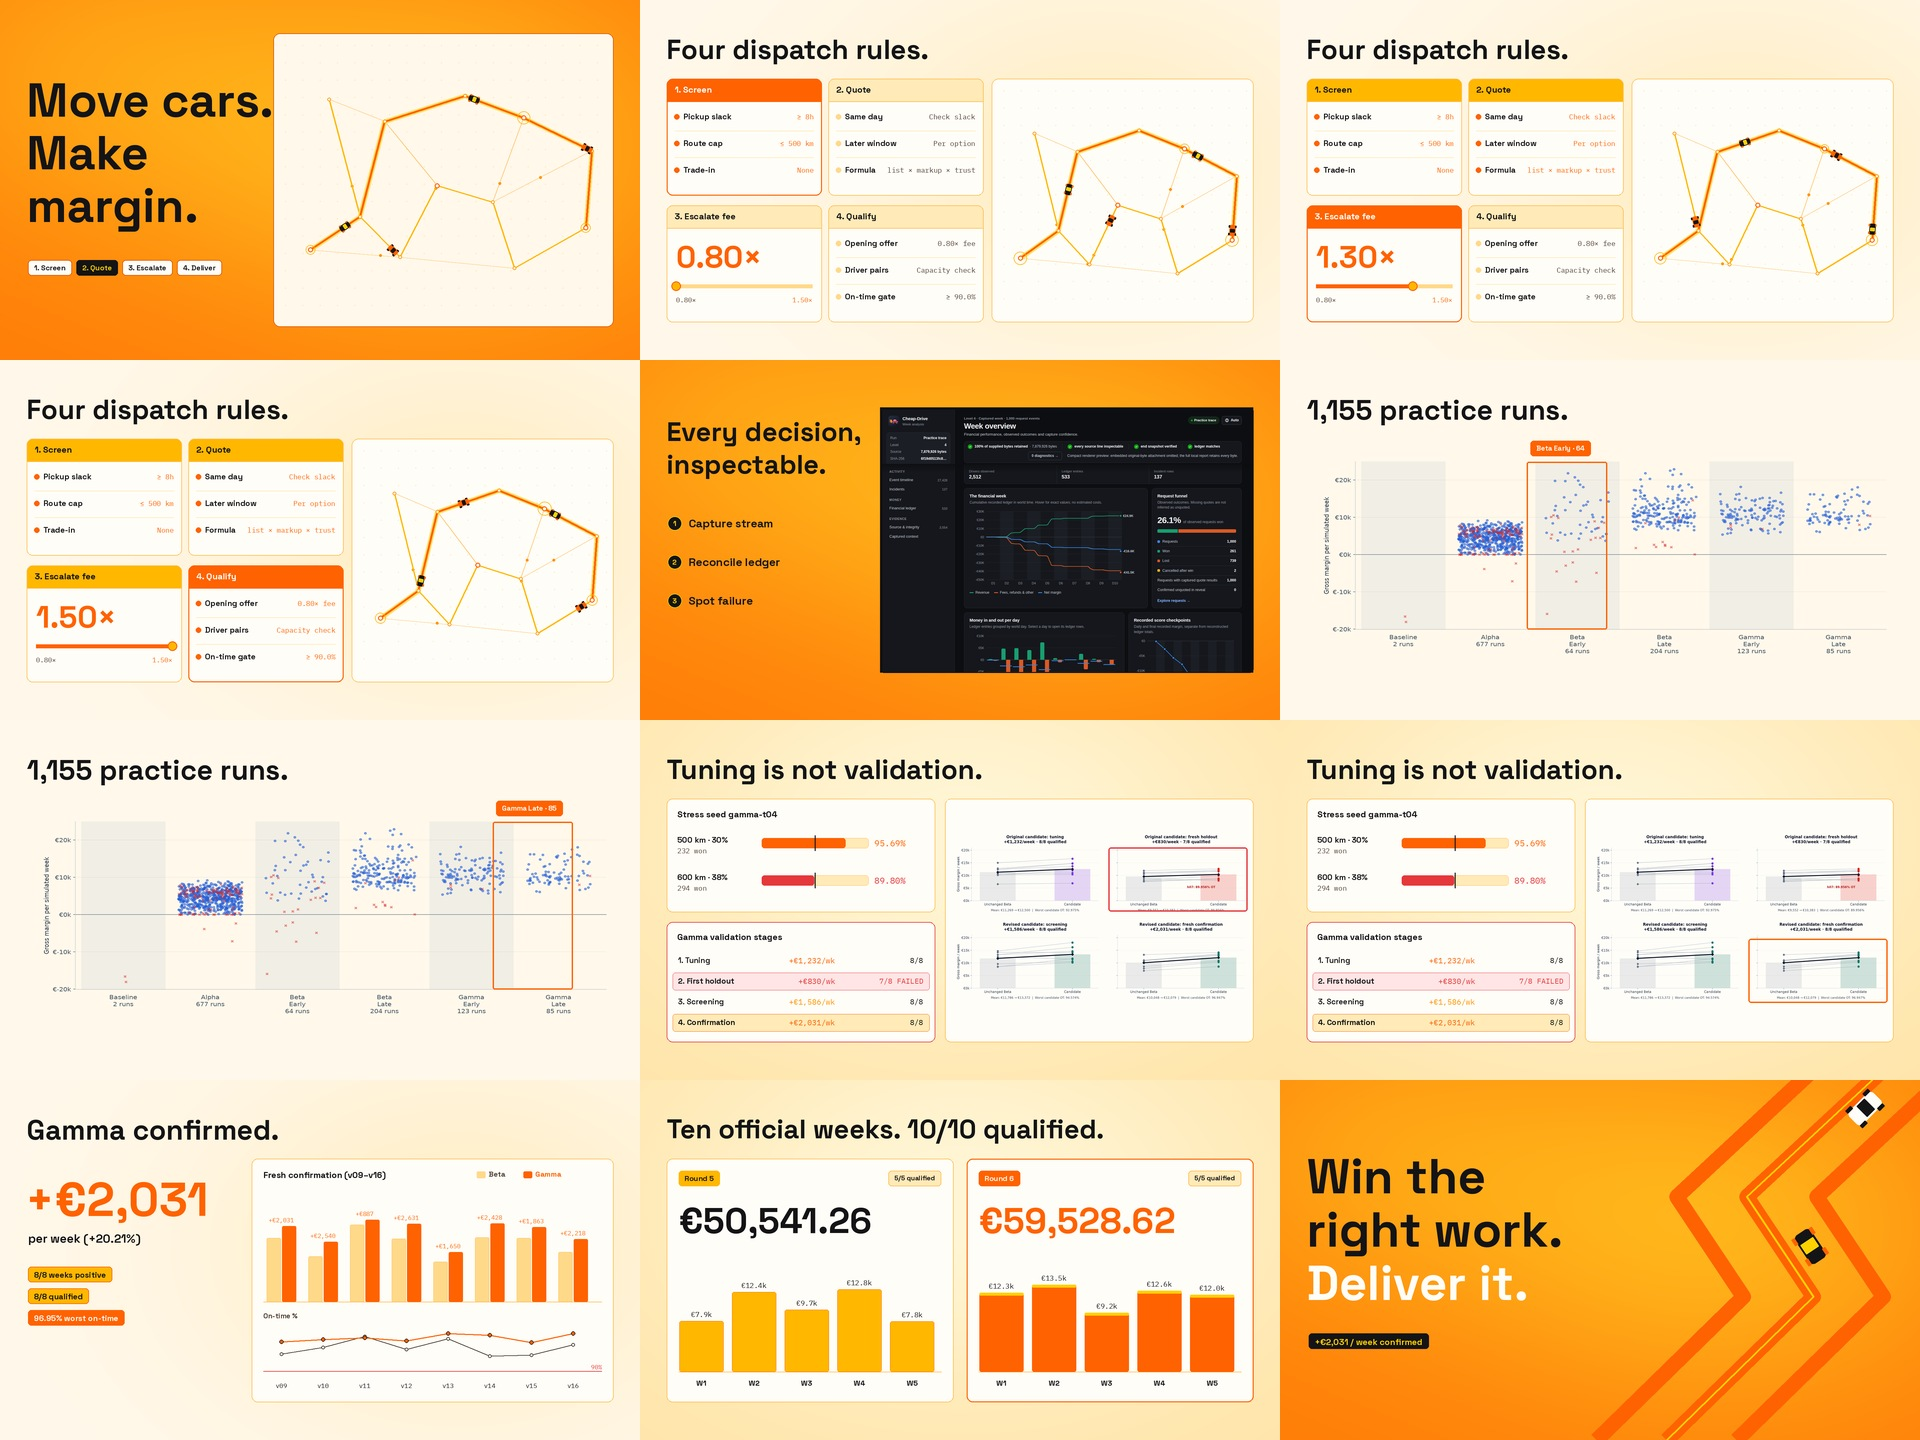
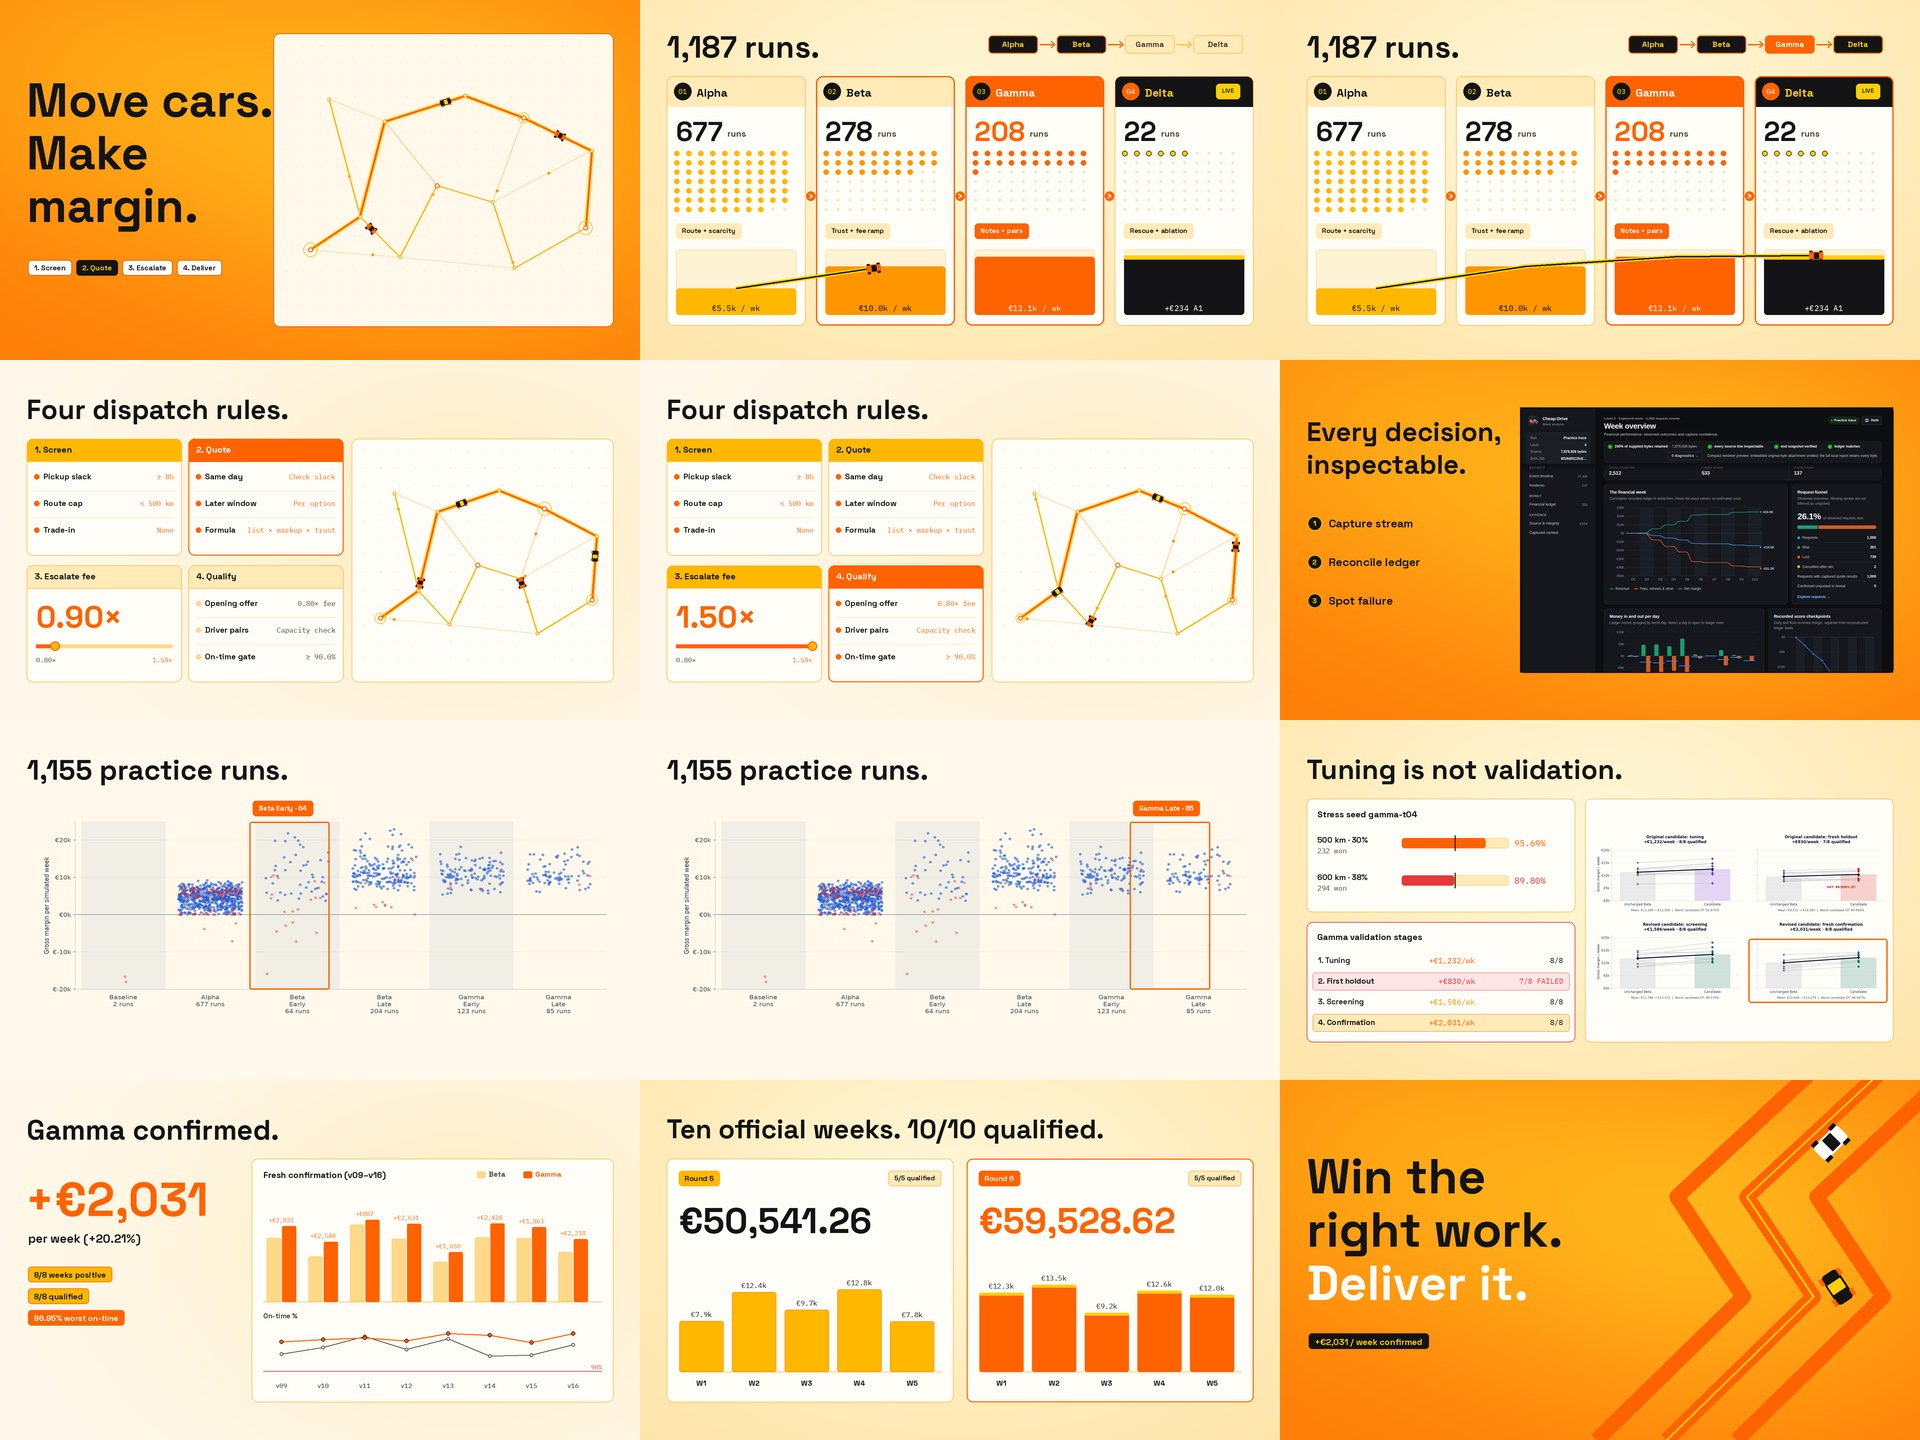
feat(demo-video): add graphical Alpha->Beta->Gamma->Delta iteration slide near start

diff --git a/docs/demo-video/render.py b/docs/demo-video/render.py
@@ -29,14 +29,15 @@ GOLD_LINE = '#FFBE4F'    # Golden-orange structural border on cream scenes
 DANGER = '#E5383B'       # Crisp crimson for failed qualification / deadline warnings
 
 SCENES = [
-    (0, 6),
-    (6, 15),
-    (15, 22),
-    (22, 30),
-    (30, 38),
-    (38, 47),
-    (47, 54),
-    (54, 60),
+    (0, 5),
+    (5, 13),
+    (13, 20),
+    (20, 26),
+    (26, 34),
+    (34, 41),
+    (41, 49),
+    (49, 55),
+    (55, 60),
 ]
 
 GRAPH = json.loads((ROOT / 'data/graph-data.json').read_text())
@@ -125,7 +126,7 @@ def badge(im, text, x, y, color=INK, bg=MARIGOLD, border=None, size=22, mono=Fal
     return w
 
 
-def enter(im, text, x, y, size, t, delay=0, color=INK, weight=600, mono=False, span=0.40):
+def enter(im, text, x, y, size, t, delay=0, color=INK, weight=600, mono=False, span=0.38):
     p = ease((t - delay) / span)
     if p <= 0:
         return
@@ -228,16 +229,126 @@ def hero(t):
     im = base_canvas('juicy').copy()
     network(im, t, (820, 100, 1840, 980), bg=CREAM, border='#E05500')
     enter(im, 'Move cars.', 80, 210, 142, t, .05, color=INK, weight=700)
-    enter(im, 'Make', 80, 368, 142, t, .18, color=INK, weight=700)
-    enter(im, 'margin.', 80, 526, 142, t, .30, color=INK, weight=700)
-    if t > .6:
+    enter(im, 'Make', 80, 368, 142, t, .16, color=INK, weight=700)
+    enter(im, 'margin.', 80, 526, 142, t, .26, color=INK, weight=700)
+    if t > .45:
         steps = ['1. Screen', '2. Quote', '3. Escalate', '4. Deliver']
         xx = 84
-        active_step = min(3, int((t - .6) / 1.1))
+        active_step = min(3, int((t - .45) / 0.95))
         for i, s in enumerate(steps):
             is_act = i == active_step
             w = badge(im, s, xx, 780, color=SUNBURST if is_act else INK, bg=INK if is_act else CARD, border=None if is_act else '#E05500', size=22)
             xx += w + 14
+    return im
+
+
+def evolution(t):
+    """Graphical Alpha -> Beta -> Gamma -> Delta iteration pipeline and total run counter."""
+    im = base_canvas('sunburst').copy()
+    total_runs = round(1187 * ease(t / 0.9))
+    enter(im, f'{total_runs:,} runs.', 80, 82, 92, t, 0.05, color=INK, weight=700)
+
+    # Top-right graphical Alpha -> Beta -> Gamma -> Delta chain
+    chain_names = ['Alpha', 'Beta', 'Gamma', 'Delta']
+    chain_x = 1045
+    for i, nm in enumerate(chain_names):
+        bx = chain_x + i * 205
+        act = t >= i * 1.4
+        bg_c = ORANGE if (act and i == 2) else (INK if act else APRICOT)
+        fg_c = CARD if (act and i == 2) else (SUNBURST if act else MUTED_INK)
+        rect(im, (bx, 106, bx + 148, 160), bg_c, outline=ORANGE if act else GOLD_LINE, r=12, width=3 if act else 2)
+        txt(im, nm, bx + 74, 133, 24, fg_c, weight=700, anchor='mm')
+        if i < 3:
+            ax1, ax2 = bx + 154, bx + 199
+            line(im, [(ax1, 133), (ax2, 133)], ORANGE if act else GOLD_LINE, 4)
+            line(im, [(ax2 - 11, 123), (ax2, 133), (ax2 - 11, 143)], ORANGE if act else GOLD_LINE, 4)
+
+    # 4 prototype columns: (num_tag, name, runs, dots_count, margin_eur, tag, accent_col)
+    protos = [
+        ('01', 'Alpha', 677, 68, 5476, 'Route + scarcity', MARIGOLD),
+        ('02', 'Beta', 278, 28, 10048, 'Trust + fee ramp', MANGO),
+        ('03', 'Gamma', 208, 21, 12079, 'Notes + pairs', ORANGE),
+        ('04', 'Delta', 22, 6, 12313, 'Rescue + ablation', INK),
+    ]
+
+    curve_pts = []
+    for i, (num_tag, name, r_cnt, n_dots, mgn, tag, col) in enumerate(protos):
+        cx = 80 + i * 448
+        cw = 416
+        cy, cy2 = 228, 976
+        appear = ease((t - 0.15 - i * 0.25) / 0.55)
+        is_focus = int(clamp(t / 1.8, 0, 3.99)) == i
+        is_gamma = i == 2
+        is_delta = i == 3
+
+        rect(im, (cx, cy, cx + cw, cy2), CARD, None, r=20)
+        hdr_bg = ORANGE if is_gamma else (INK if is_delta else APRICOT)
+        hdr_fg = CARD if is_gamma else (SUNBURST if is_delta else INK)
+        rect(im, (cx, cy, cx + cw, cy + 92), hdr_bg, None, r=20)
+        rect(im, (cx, cy + 70, cx + cw, cy + 92), hdr_bg, None, r=0)
+        rect(im, (cx, cy, cx + cw, cy2), None, ORANGE if (is_focus or is_gamma) else GOLD_LINE, r=20, width=4 if (is_focus or is_gamma) else 2)
+
+        # Stage number & Name
+        circle(im, cx + 48, cy + 46, 26, INK if not is_delta else ORANGE)
+        txt(im, num_tag, cx + 48, cy + 46, 22, SUNBURST if not is_delta else CARD, mono=True, weight=700, anchor='mm')
+        txt(im, name, cx + 90, cy + 28, 34, hdr_fg, 700)
+        if is_delta:
+            badge(im, 'LIVE', cx + cw - 112, cy + 23, color=INK, bg=SUNBURST, size=18)
+
+        # Big run count & visual dot-matrix meter (each dot = ~10 runs)
+        cnt_now = round(r_cnt * appear)
+        txt(im, f'{cnt_now}', cx + 28, cy + 114, 82, ORANGE if is_gamma else INK, 700)
+        txt(im, 'runs', cx + 28 + font(82, 700).getbbox(f'{cnt_now}')[2] + 14, cy + 156, 26, MUTED_INK, 650)
+
+        # Graphical dot grid representing run volume
+        gx0, gy0 = cx + 30, cy + 232
+        for d_idx in range(70):
+            dx = gx0 + (d_idx % 10) * 36
+            dy = gy0 + (d_idx // 10) * 28
+            active_dot = d_idx < round(n_dots * appear)
+            circle(
+                im,
+                dx,
+                dy,
+                8 if active_dot else 4,
+                (ORANGE if is_gamma else (SUNBURST if is_delta else col)) if active_dot else '#F7E6C4',
+                outline=INK if (active_dot and is_delta) else None,
+                width=2 if (active_dot and is_delta) else 0,
+            )
+
+        # Strategy tag pill
+        badge(im, tag, cx + 28, cy + 442, color=CARD if is_gamma else INK, bg=ORANGE if is_gamma else APRICOT, size=20)
+
+        # Rising weekly margin bar at bottom of card
+        bar_base = cy2 - 32
+        max_h = 195
+        bh = max_h * (mgn / 13500.0) * appear
+        by = bar_base - bh
+        rect(im, (cx + 28, bar_base - max_h, cx + cw - 28, bar_base), '#FFF3D6', outline=GOLD_LINE, r=10)
+        rect(im, (cx + 28, by, cx + cw - 28, bar_base), ORANGE if is_gamma else (INK if is_delta else col), r=10)
+        if is_delta and appear > 0.2:
+            rect(im, (cx + 28, by, cx + cw - 28, min(bar_base, by + 12)), SUNBURST, r=4)
+        lbl_mgn = f'€{mgn / 1000:.1f}k / wk' if not is_delta else '+€234 A1'
+        if appear > 0.35:
+            txt(im, lbl_mgn, cx + cw / 2, bar_base - 36, 24, CARD if (is_gamma or is_delta) else INK, mono=True, weight=700, anchor='ma')
+        curve_pts.append((cx + cw / 2, by))
+
+        # Arrow connector between cards
+        if i < 3:
+            ax = cx + cw + 16
+            ay = cy + 360
+            circle(im, ax, ay, 14, ORANGE if appear > 0.8 else APRICOT)
+            line(im, [(ax - 5, ay - 6), (ax + 5, ay), (ax - 5, ay + 6)], CARD if appear > 0.8 else MUTED_INK, 3)
+
+    # Trajectory curve & climbing car across the 4 prototypes
+    if len(curve_pts) > 1 and t > 0.8:
+        p_car = clamp((t - 0.8) / 5.5)
+        path_partial(im, curve_pts, p_car, INK, 5, glow=SUNBURST)
+        q = route_point(curve_pts, p_car)
+        ahead = route_point(curve_pts, min(p_car + 0.01, 1.0))
+        heading = math.degrees(math.atan2(ahead[1] - q[1], ahead[0] - q[0]))
+        car(im, *q, color=ORANGE, scale=1.15, angle=heading)
+
     return im
 
 
@@ -246,7 +357,7 @@ def dispatcher(t):
     im = base_canvas('citrus').copy()
     enter(im, 'Four dispatch rules.', 80, 96, 82, t, 0.05, color=INK, weight=700)
 
-    phase = min(3, int(t / 2.1))
+    phase = min(3, int(t / 1.65))
 
     cards = [
         (80, 236, '1. Screen', [
@@ -281,7 +392,7 @@ def dispatcher(t):
         txt(im, title, cx + 24, cy + 16, 26, hdr_fg, 700)
 
         if i == 2:
-            p_ramp = smooth(clamp((t - 1.8) / 4.2))
+            p_ramp = smooth(clamp((t - 1.2) / 3.4))
             val = mix(0.80, 1.50, p_ramp)
             txt(im, f'{val:.2f}×', cx + 28, cy + 96, 92, ORANGE, 700)
             ry = cy + 242
@@ -309,11 +420,11 @@ def observability(t):
     enter(im, 'inspectable.', 80, 262, 80, t, 0.18, color=INK, weight=700)
     for i, (n, s) in enumerate([('1', 'Capture stream'), ('2', 'Reconcile ledger'), ('3', 'Spot failure')]):
         yy = 470 + i * 116
-        if t > .3 + i * .15:
+        if t > .25 + i * .14:
             circle(im, 104, yy + 20, 21, INK, outline=SUNBURST, width=2)
             txt(im, n, 104, yy + 20, 22, SUNBURST, weight=700, anchor='mm')
-        enter(im, s, 146, yy - 2, 34, t, .3 + i * .15, color=INK, weight=650)
-    crop_top = mix(0., 370., smooth((t - 0.6) / 5.6))
+        enter(im, s, 146, yy - 2, 34, t, .25 + i * .14, color=INK, weight=650)
+    crop_top = mix(0., 370., smooth((t - 0.4) / 4.8))
     viewport = Image.new('RGB', (1280, 910), '#0C0D0F')
     viewport.paste(REPORT.crop((0, 0, 1280, 194)), (0, 0))
     viewport.paste(REPORT.resize((1280, 716), Image.Resampling.BICUBIC, box=(0., 194 + crop_top, 1280., 910 + crop_top)), (0, 194))
@@ -330,7 +441,6 @@ def observability(t):
 @lru_cache(maxsize=1)
 def graph_all_small():
     tinted = ImageChops.multiply(CHART_ALL, Image.new('RGB', CHART_ALL.size, CREAM)).resize((1790, 868), Image.Resampling.LANCZOS)
-    # Mask embedded matplotlib header/subtitle and bottom footnotes
     rect(tinted, (0, 0, 1790, 145), CREAM)
     rect(tinted, (0, 765, 1790, 868), CREAM)
     return tinted
@@ -339,7 +449,6 @@ def graph_all_small():
 @lru_cache(maxsize=1)
 def graph_stages_small():
     tinted = ImageChops.multiply(CHART_STAGES, Image.new('RGB', CHART_STAGES.size, CARD)).resize((910, 680), Image.Resampling.LANCZOS)
-    # Mask embedded matplotlib title/subtitle and bottom footnotes
     rect(tinted, (0, 0, 910, 92), CARD)
     rect(tinted, (0, 608, 910, 680), CARD)
     return tinted
@@ -358,8 +467,8 @@ def experiments(t):
         (4, 'Gamma Early · 123'),
         (5, 'Gamma Late · 85'),
     ]
-    if t > 0.5:
-        frac = clamp((t - 0.5) / 6.6)
+    if t > 0.4:
+        frac = clamp((t - 0.4) / 6.8)
         pos = mix(0.0, 4.0, smooth(frac))
         col = 1.0 + pos
         stage_idx = min(4, int(pos + 0.5))
@@ -417,7 +526,7 @@ def failure(t):
     # Right panel: The 4-panel learning-stages.png chart (header & footnotes masked)
     rect(im, (915, 236, 1840, 966), CARD, outline=GOLD_LINE, r=18, width=2)
     im.paste(graph_stages_small(), (922, 240))
-    if t < 4.0:
+    if t < 3.4:
         rect(im, (1405, 382, 1822, 574), None, DANGER, r=8, width=4)
     else:
         rect(im, (1405, 656, 1822, 848), None, ORANGE, r=8, width=4)
@@ -506,7 +615,7 @@ def result(t):
         line(im, [(rx + 36, base_y), (rx + 824, base_y)], GOLD_LINE, 2)
         for j, w in enumerate(runs_list):
             bx = rx + 38 + j * 158
-            p = ease((t - 0.30 - j * 0.14) / 0.65)
+            p = ease((t - 0.25 - j * 0.12) / 0.55)
             v = w['score']['marginCents'] / 100.0
             bh = 280 * (v / 14500.0) * p
             rect(im, (bx, base_y - bh, bx + 132, base_y), bar_col, outline=ORANGE if not is_r6 else None, r=6)
@@ -541,19 +650,19 @@ def ending(t):
     return im
 
 
-FUNCS = [hero, dispatcher, observability, experiments, failure, gain, result, ending]
+FUNCS = [hero, evolution, dispatcher, observability, experiments, failure, gain, result, ending]
 
 
 def frame(t):
-    idx = next((i for i, (a, b) in enumerate(SCENES) if a <= t < b), 7)
+    idx = next((i for i, (a, b) in enumerate(SCENES) if a <= t < b), 8)
     a, b = SCENES[idx]
     im = FUNCS[idx](t - a)
     dt = t - a
-    if idx and dt < .32:
-        xx = round(W * ease(dt / .32))
+    if idx and dt < .30:
+        xx = round(W * ease(dt / .30))
         prev = FUNCS[idx - 1](SCENES[idx - 1][1] - SCENES[idx - 1][0] + dt)
         im.paste(prev.crop((xx, 0, W, H)), (xx, 0))
-        rect(im, (max(0, xx - 12), 0, xx + 2, H), ORANGE if idx not in [0, 2, 7] else INK)
+        rect(im, (max(0, xx - 12), 0, xx + 2, H), ORANGE if idx not in [0, 3, 8] else INK)
     return im
 
 
@@ -615,7 +724,7 @@ def soundtrack(path):
                 noise = rng.standard_normal(len(ts))
                 noise = np.diff(np.r_[0, noise]) * np.exp(-ts * 95)
                 add(start + j * (beat_sec / 2), noise, .012 if j % 2 else .006, (-1 if j % 2 else 1) * .3)
-    for cut in [6, 15, 22, 30, 38, 47, 54]:
+    for cut in [5, 13, 20, 26, 34, 41, 49, 55]:
         ts = np.arange(round(sr * 0.7)) / sr
         noise = rng.standard_normal(len(ts))
         noise = np.convolve(noise, np.ones(12) / 12, mode='same')
@@ -633,7 +742,7 @@ def soundtrack(path):
 
 
 def stills(out):
-    times = [2.5, 7.2, 10.5, 13.8, 18.5, 24.5, 28.0, 32.5, 36.5, 43.5, 51.0, 57.5]
+    times = [2.2, 7.5, 11.2, 15.0, 18.2, 23.0, 28.5, 32.0, 38.0, 45.0, 52.0, 57.5]
     thumbs = []
     for p in out.glob('frame-*.png'):
         p.unlink()
@@ -647,7 +756,7 @@ def stills(out):
         sheet.paste(thumb, ((i % 3) * 640, (i // 3) * 360))
     sheet.save(out / 'contact-sheet.jpg', quality=93)
     sheet.save(ROOT / 'assets/contact-sheet.jpg', quality=93)
-    poster = frame(2.5)
+    poster = frame(10.5)
     poster.save(out / 'poster.png')
     poster.save(ROOT / 'assets/poster.png')
 

diff --git a/docs/demo-video/README.md b/docs/demo-video/README.md
@@ -26,14 +26,15 @@ Output defaults to `runs/demo-video/` (ignored by Git); `--output /absolute/path
 
 | Time | Scene |
 | --- | --- |
-| 00:00–00:06 | Move cars. Make margin. Animated route network (`1,165 scored worlds / 58 scenarios`). |
-| 00:06–00:15 | 2×2 Dispatch Bento: Screen, Quote, Escalate fee (`0.80× → 1.50×`), Guard 90% qualification. |
-| 00:15–00:22 | Observability: Real offline HTML report screenshot with scrolling details. |
-| 00:22–00:30 | 1,155 completed practice runs across 6 model stages (`Baseline`, `Alpha`, `Beta Early`, `Beta Late`, `Gamma Early`, `Gamma Late`). |
-| 00:30–00:38 | Tuning vs. validation: Stress seed `gamma-t04` (`89.80%` OT) and why Gamma Early failed its first fresh holdout (`gamma-h07` at `89.956%` OT, `7/8 qualified`). |
-| 00:38–00:47 | Gamma Late confirmed on 8 untouched weeks (`v09–v16`): `+€2,031/week (+20.21%)`, `8/8 positive`, `8/8 qualified`, worst on-time `93.67% → 96.95%`. |
-| 00:47–00:54 | Ten official ranking weeks (`10/10 qualified`): Round 5 (`€50,541.26`) and Round 6 (`€59,528.62`). |
-| 00:54–01:00 | Brand close on the highway (`Gamma confirmed: +€2,031/wk on v09–v16`). |
+| 00:00–00:05 | Move cars. Make margin. Animated route network. |
+| 00:05–00:13 | 1,187 runs: Graphical `Alpha → Beta → Gamma → Delta` iteration pipeline (`677`, `278`, `208`, `22+ LIVE`) with run-volume matrices and rising margin trajectory. |
+| 00:13–00:20 | 2×2 Dispatch Bento: Screen, Quote, Escalate fee (`0.80× → 1.50×`), Qualify (`≥ 90%`). |
+| 00:20–00:26 | Observability: Real offline HTML report screenshot with scrolling details. |
+| 00:26–00:34 | 1,155 completed practice runs across 6 model stages (`Baseline`, `Alpha`, `Beta Early`, `Beta Late`, `Gamma Early`, `Gamma Late`). |
+| 00:34–00:41 | Tuning vs. validation: Stress seed `gamma-t04` (`89.80%` OT) and why Gamma Early failed its first fresh holdout (`gamma-h07` at `89.956%` OT, `7/8 qualified`). |
+| 00:41–00:49 | Gamma Late confirmed on 8 untouched weeks (`v09–v16`): `+€2,031/week (+20.21%)`, `8/8 positive`, `8/8 qualified`, worst on-time `96.95%`. |
+| 00:49–00:55 | Ten official ranking weeks (`10/10 qualified`): Round 5 (`€50,541.26`) and Round 6 (`€59,528.62`). |
+| 00:55–01:00 | Highway close (`Win the right work. Deliver it.`). |
 
 ## Evidence and limits
 
